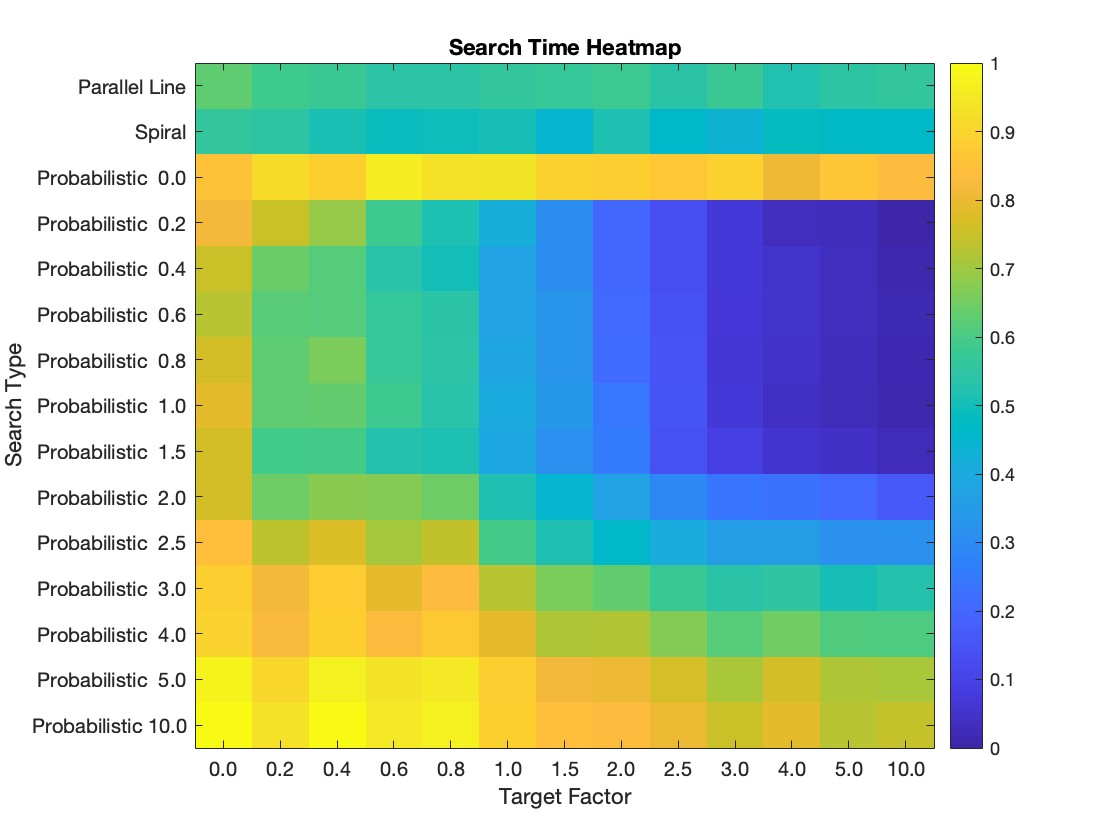
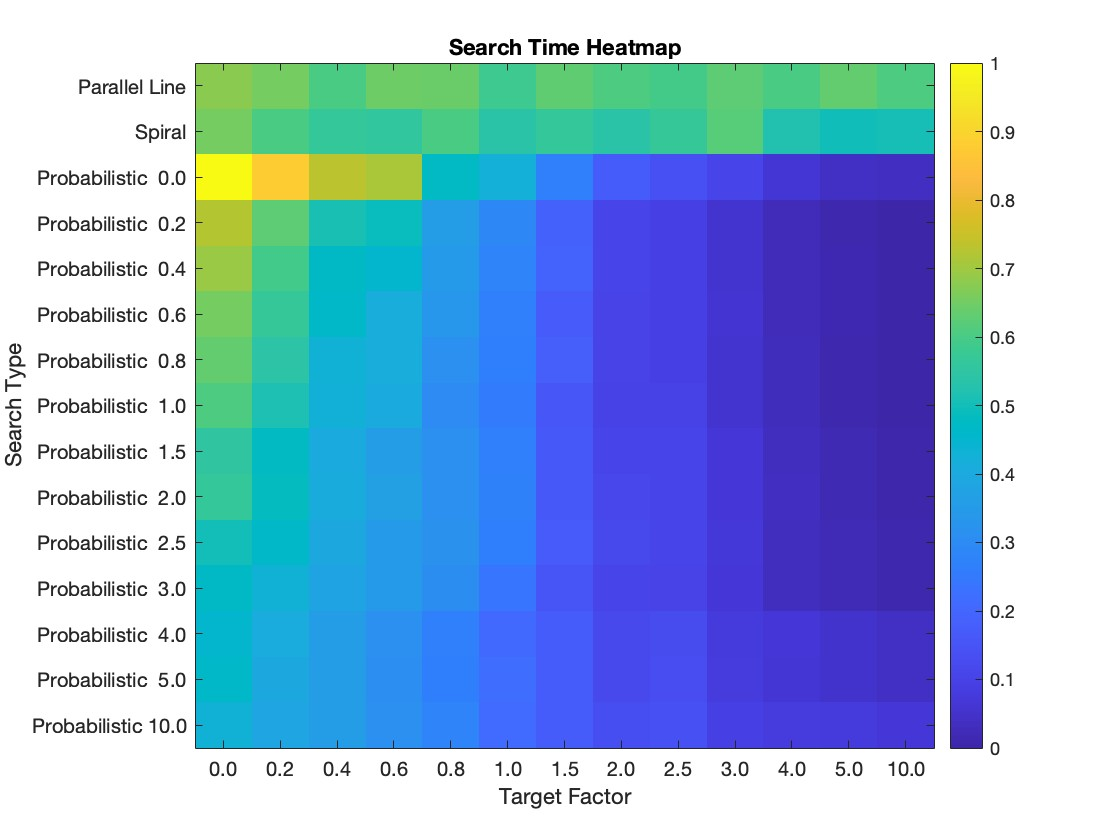
Updating images

diff --git a/data.m b/data.m
@@ -35,21 +35,21 @@ columns = {
 };
 
 values = {
-    [211.77, 200.60, 198.32, 188.60, 188.81, 193.91, 196.23, 198.96, 187.99, 197.68, 184.25, 189.55, 193.83];
-    [193.72, 190.12, 180.52, 176.26, 176.93, 180.42, 164.57, 183.30, 167.78, 162.05, 174.19, 170.82, 168.56];
-    [269.56, 285.53, 278.24, 295.97, 288.98, 291.74, 279.54, 277.50, 273.49, 279.66, 257.34, 271.01, 265.68];
-    [260.15, 243.59, 227.05, 200.25, 182.37, 156.41, 129.27, 101.43,  84.46,  68.68,  58.34, 57.138, 50.042];
-    [243.10, 215.11, 207.84, 186.61, 178.56, 144.88, 128.61, 102.13,  84.64,  68.13,  63.15, 58.613, 52.374];
-    [237.11, 209.96, 207.63, 195.36, 187.53, 144.69, 134.92, 103.92,  86.82,  67.12,  63.41,  58.67,  55.04];
-    [246.37, 212.38, 220.45, 196.37, 188.83, 149.12, 134.73, 104.86,  87.77,  66.55,  62.35, 57.848, 53.352];
-    [252.47, 212.13, 212.70, 200.01, 186.73, 153.20, 137.40, 112.70,  89.13,  68.72,  60.65, 56.325, 52.493];
-    [245.74, 202.28, 202.56, 185.24, 181.58, 151.09, 130.74, 115.01,  86.72,  73.60,  64.87, 61.853, 56.714];
-    [246.32, 215.73, 224.55, 221.69, 216.18, 183.28, 165.00, 145.00, 124.41, 112.11, 109.88, 102.53, 93.091];
-    [266.10, 238.69, 248.72, 231.35, 239.89, 203.29, 182.87, 168.21, 154.39, 140.35, 141.75, 131.46, 132.17];
-    [277.44, 260.05, 276.52, 253.56, 265.19, 237.00, 220.11, 213.41, 197.20, 188.04, 192.46, 179.73, 185.19];
-    [280.61, 262.52, 278.31, 264.38, 274.45, 254.51, 233.84, 235.36, 221.68, 209.06, 217.40, 206.70, 206.40];
-    [300.87, 282.49, 299.67, 290.13, 294.67, 277.27, 259.83, 257.18, 247.40, 233.07, 246.56, 234.40, 233.21];
-    [306.86, 289.32, 306.34, 294.82, 299.17, 278.61, 266.42, 264.63, 256.56, 242.98, 252.17, 237.00, 240.86]
+    [204.88, 199.85, 187.34, 197.71, 196.31, 183.05, 194.32, 189.03, 185.90, 192.72, 187.92, 194.89, 188.51];
+    [199.17, 188.12, 178.89, 177.31, 187.46, 172.43, 178.59, 172.84, 179.26, 191.66, 169.27, 163.80, 165.52];
+    [278.86, 250.61, 217.33, 213.12, 158.01, 146.29, 110.80,  89.04,  80.95,  74.16,  64.23,  58.76,  57.16];
+    [215.54, 193.33, 165.92, 161.77, 130.79, 116.01,  91.74,  73.42,  70.68,  61.87,  55.27,  51.44,  49.04];
+    [208.51, 184.65, 157.63, 152.39, 128.63, 113.56,  93.06,  73.84,  70.11,  61.76,  55.12,  51.80,  49.73];
+    [199.01, 179.56, 155.00, 144.14, 126.52, 110.93,  88.39,  72.78,  70.25,  62.55,  55.11,  51.80,  49.84];
+    [194.85, 173.17, 148.51, 144.09, 120.90, 109.92,  90.00,  73.04,  71.03,  62.37,  55.78,  51.61,  49.84];
+    [188.80, 167.22, 147.56, 141.01, 117.70, 107.86,  85.47,  72.04,  71.68,  62.34,  55.87,  51.55,  49.79];
+    [175.75, 158.96, 141.37, 130.56, 121.06, 110.83,  86.11,  73.39,  73.63,  64.62,  56.94,  53.21,  50.66];
+    [178.50, 159.62, 141.96, 133.16, 121.58, 111.51,  86.49,  75.63,  74.07,  64.57,  57.16,  53.31,  50.61];
+    [164.27, 155.00, 140.08, 128.77, 123.05, 109.74,  88.08,  76.74,  74.04,  65.59,  56.75,  53.63,  50.98];
+    [157.28, 148.62, 135.67, 128.54, 119.07, 104.03,  84.12,  73.42,  72.77,  64.56,  56.93,  53.67,  51.00];
+    [152.34, 142.66, 131.62, 121.10, 110.98,  97.48,  88.64,  76.53,  78.00,  66.79,  64.66,  61.45,  58.31];
+    [155.37, 140.17, 129.96, 120.60, 109.64, 100.18,  89.11,  76.36,  79.25,  67.85,  63.98,  61.49,  58.64];
+    [148.13, 137.51, 130.20, 121.22, 113.38,  97.72,  89.33,  79.87,  80.53,  70.19,  67.39,  66.24,  64.55];
 };
 
 d = containers.Map(rows, values);
